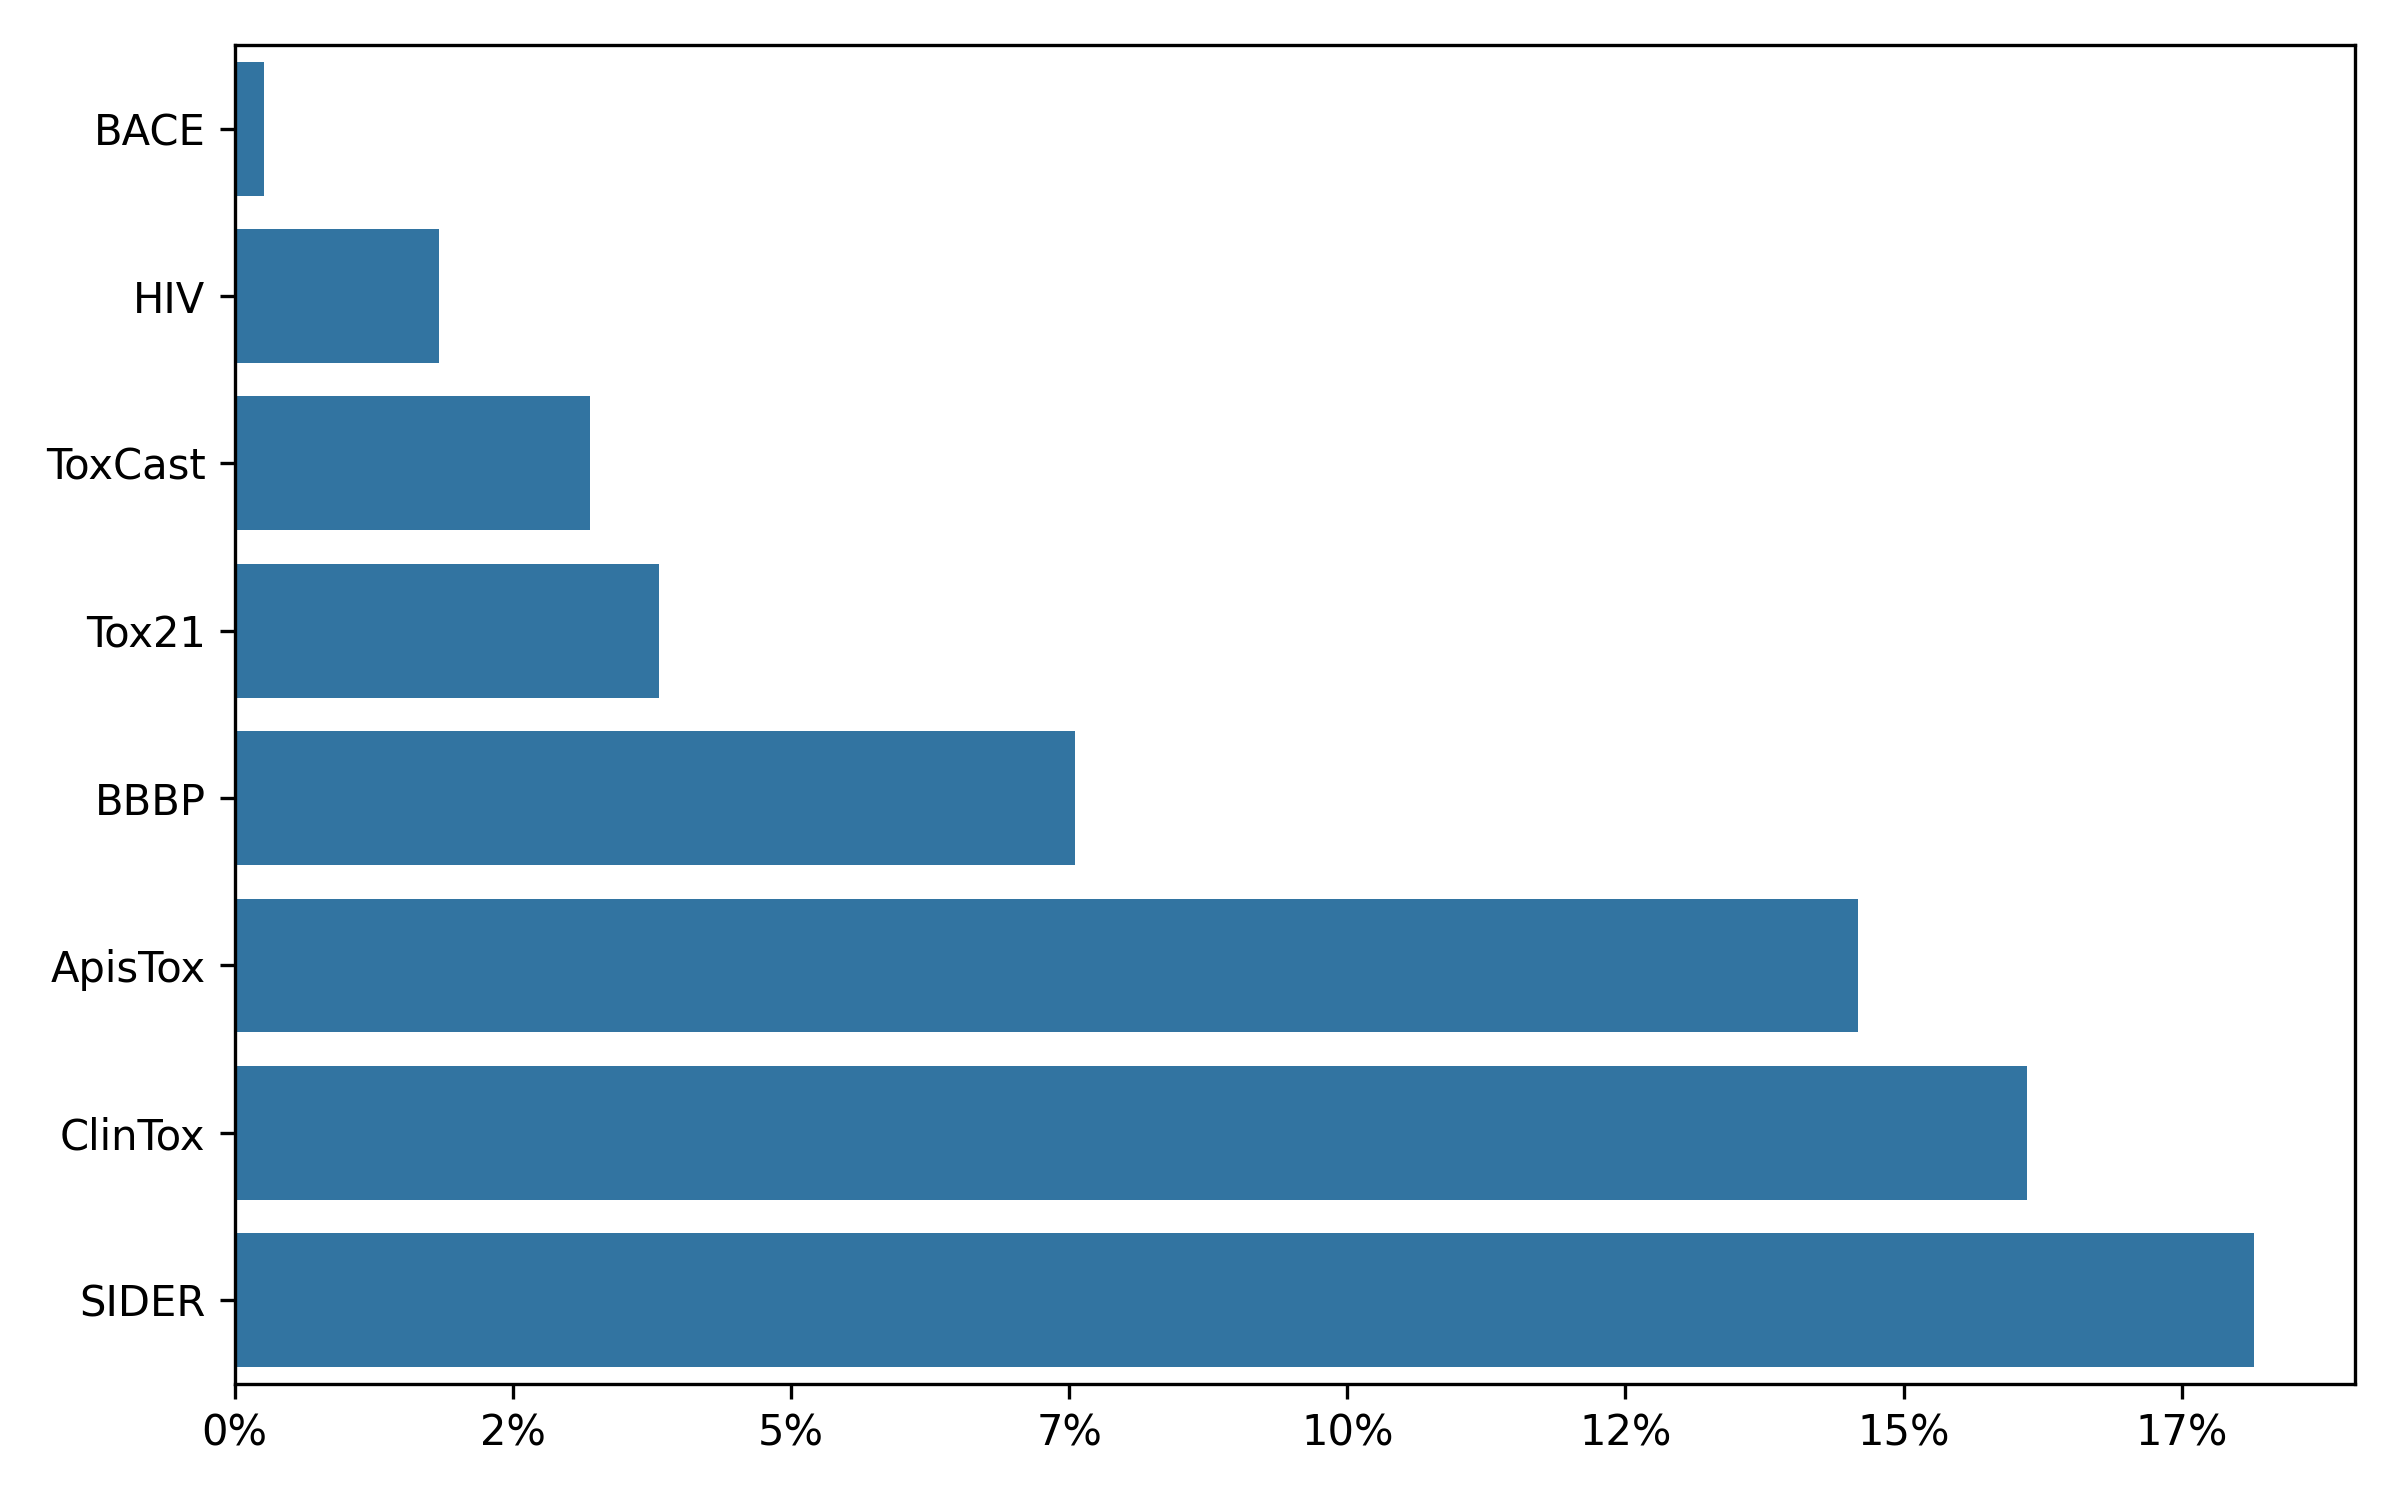
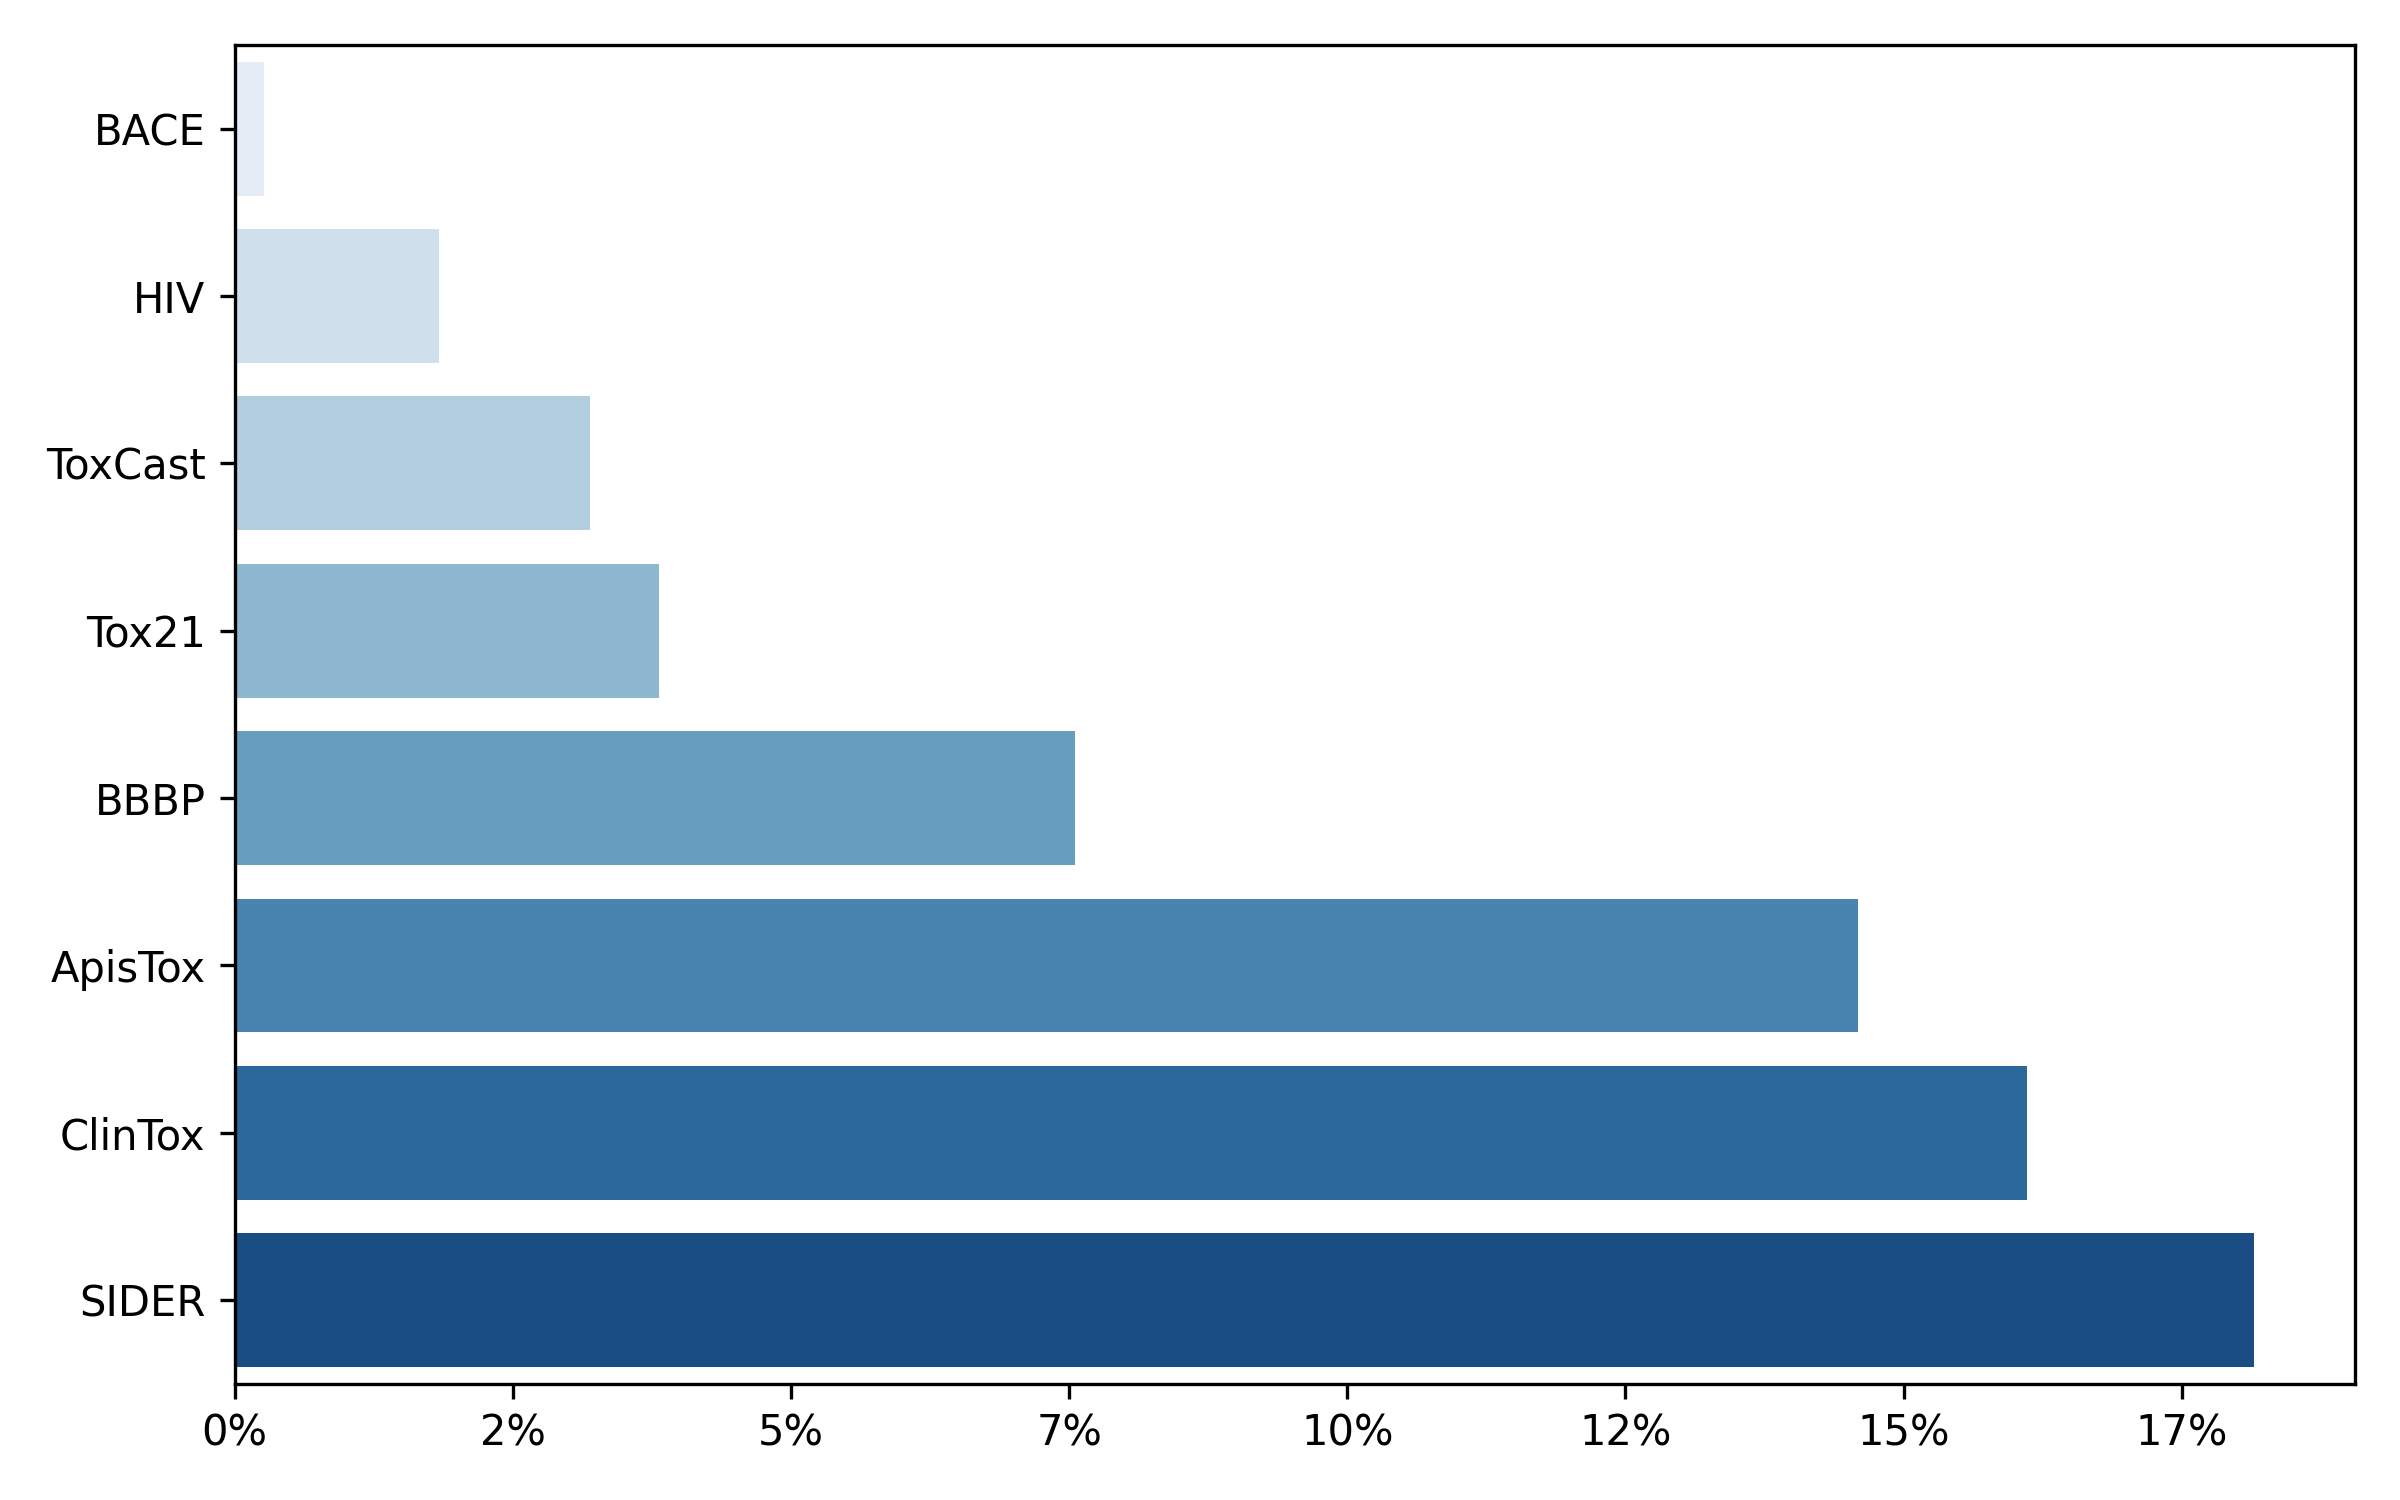
Update plots

Changed region(s): [[0.0938, 0.7973, 0.9375, 0.92], [0.0938, 0.0307, 0.4688, 0.5827]]

diff --git a/src/analysis_datasets_features.py b/src/analysis_datasets_features.py
@@ -214,25 +214,12 @@ def make_barplot(datasets: dict, file_name: str, percentage: bool = True) -> Non
     df = pd.DataFrame(datasets.items(), columns=["Dataset", "Value"])
     df = df.sort_values(by="Value")
 
-    dataset_names = [
-        "BACE",
-        "BBBP",
-        "SIDER",
-        "ClinTox",
-        "ToxCast",
-        "Tox21",
-        "HIV",
-        "ApisTox",
-    ]
-    colors = sns.color_palette("Blues", len(dataset_names))
-    colors = {record: color for record, color in zip(dataset_names, colors)}
-
     plt.figure(figsize=(8, 5))
     barplot = sns.barplot(
         x="Value",
         y="Dataset",
         data=df,
-        palette=[colors[rec] for rec in datasets["Dataset"]],
+        palette="Blues",
     )
 
     if percentage:

diff --git a/src/analysis_counterfactuals.py b/src/analysis_counterfactuals.py
@@ -42,8 +42,7 @@ def make_plots(
     smiles_test_neg = smiles_test[y_test == 0]
     smiles_test_pos = smiles_test[y_test == 1]
 
-    for i in range(50):
-        smi = smiles_test_neg[i]
+    for i, smi in enumerate(smiles_test_neg):
         model_func = lambda x: pipeline.predict(x)
         samples = exmol.sample_space(smi, model_func, num_samples=5000)
         cfs = exmol.cf_explain(samples, nmols=3, filter_nondrug=False)
